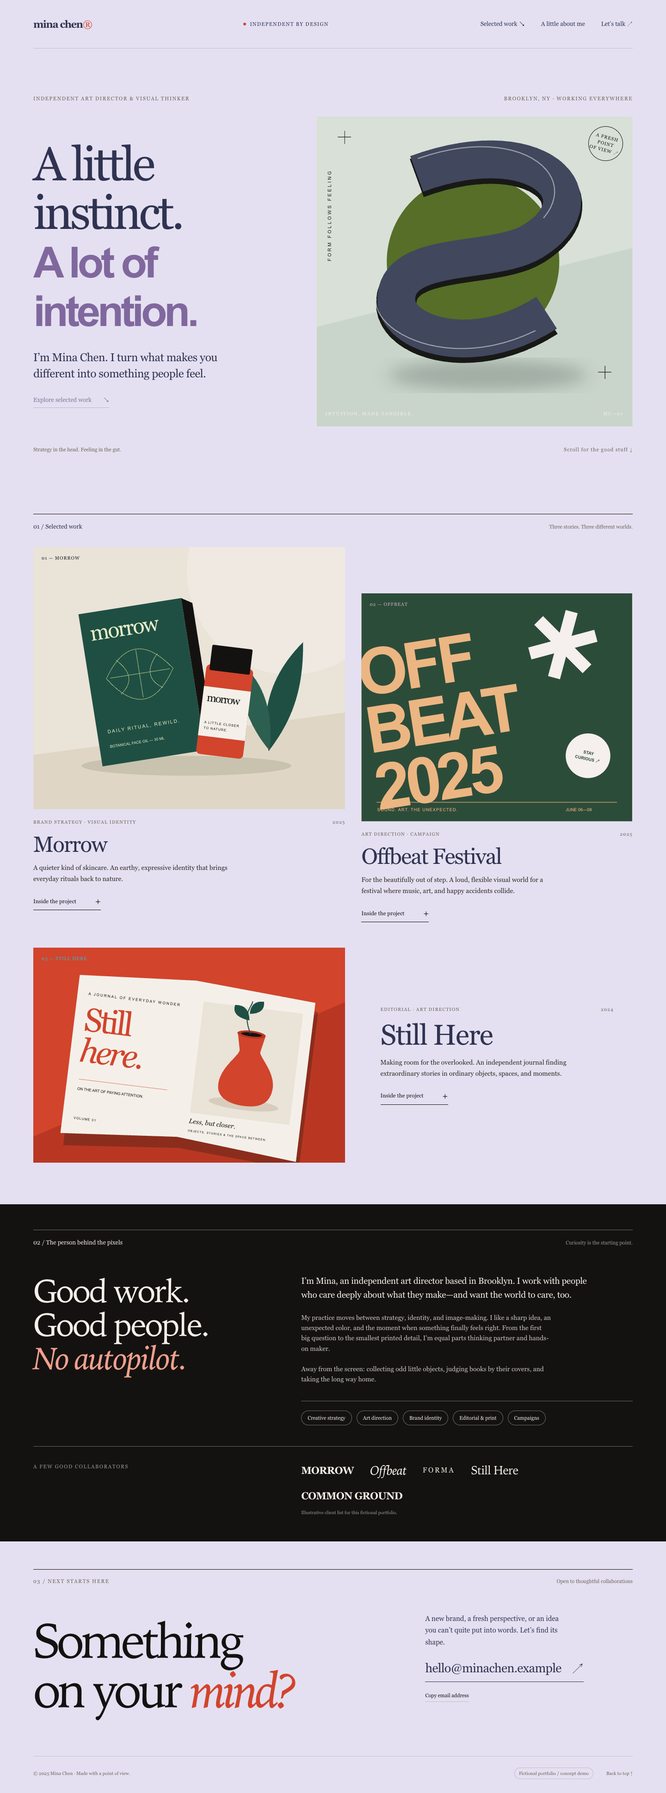
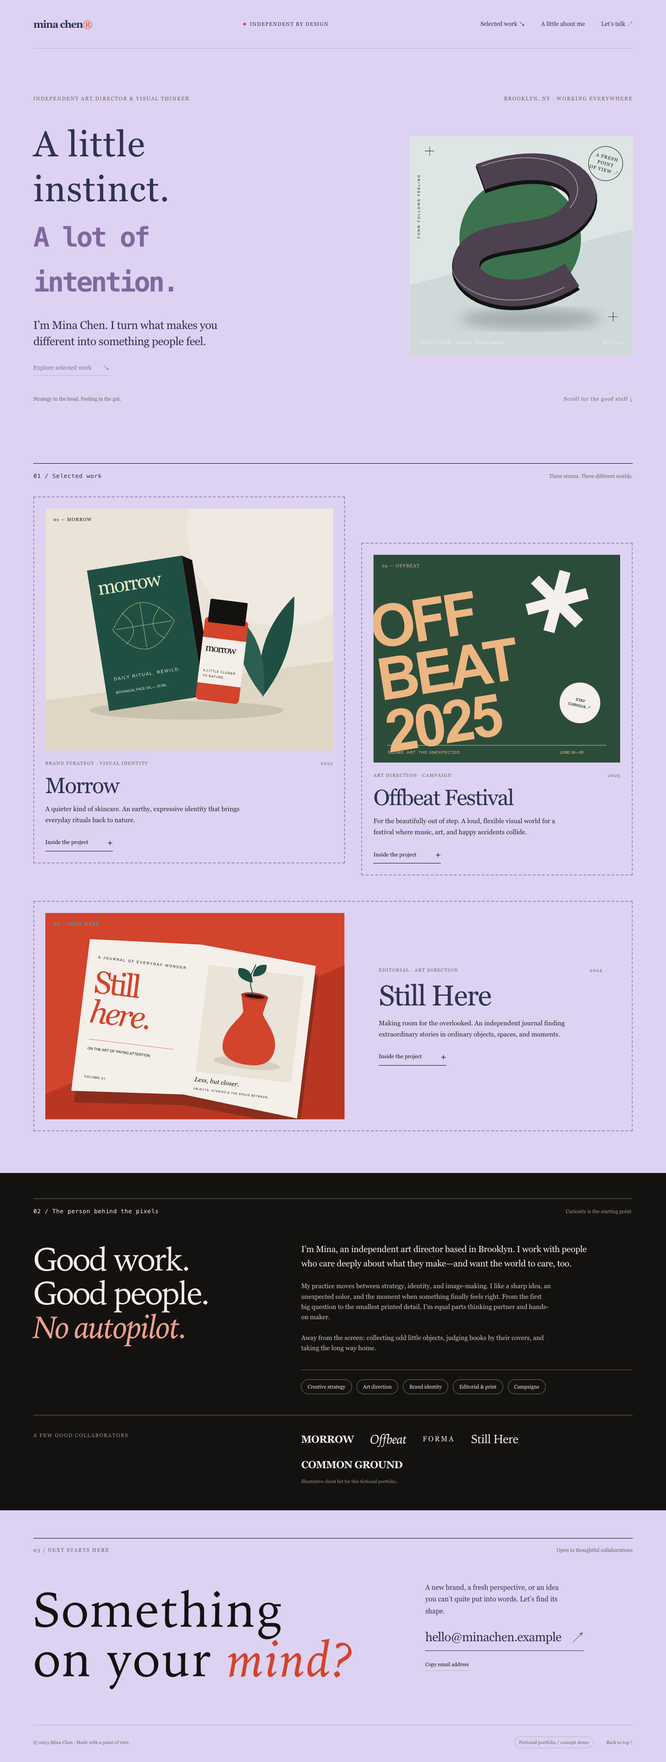
Update five-case showcase and tab navigation

diff --git a/index.html b/index.html
@@ -1,5 +1,6 @@
-<!doctype html><html lang="zh-CN"><meta charset="utf-8"><meta name="viewport" content="width=device-width,initial-scale=1"><title>GPT 缺点移植实验 · 五类页面</title><style>*{box-sizing:border-box}body{margin:0;background:#f2f3f0;color:#252a27;font:14px/1.55 system-ui,-apple-system,"Segoe UI",sans-serif}main{max-width:1900px;margin:auto;padding:28px}h1{font-size:32px;margin:0 0 5px}.subtitle{font-size:16px;margin:0 0 20px;color:#414a44}.intro{color:#59625c;max-width:1100px;margin:0 0 24px}article{background:white;border:1px solid #d9ded9;border-radius:12px;padding:20px;margin:24px 0;overflow-x:auto}header{display:flex;align-items:center;justify-content:space-between;gap:15px}h2{font-size:21px;margin:0}header span{border-radius:20px;background:#eef1ed;padding:5px 12px;font-size:12px}h3{font-size:17px;margin:22px 0 10px}.full,.triple{display:grid;gap:12px}.full{grid-template-columns:repeat(2,minmax(0,1fr));min-width:900px}.triple{grid-template-columns:repeat(3,minmax(0,1fr));min-width:990px}figure{margin:0;padding:10px;border:1px solid #e3e6e2;border-radius:8px;min-width:0}figcaption{font-weight:700;margin-bottom:8px}img{display:block;width:100%;height:auto;border:1px solid #eee}a{color:inherit}.links{margin:12px 0 0;font-size:13px}@media(max-width:850px){main{padding:14px}article{padding:14px}header{align-items:flex-start;flex-direction:column}}</style><main><h1>五类页面：GPT 原稿与改坏 + 风格迁移 · 多样性实验版 v4</h1><p class="subtitle">每个产物截第一屏做比较对比 · After 按案例使用不同的配色、字体、排版、组件与插画处理，质量偏好仍待人工验证</p><p class="intro">同一题目分别交给 GPT、DeepSeek、Xiaomi MiMo 独立生成；GPT 对照三份候选，列出其他两个候选相对 GPT 的具体弱点；GPT 提出的弱点未经单独证据核验，直接交给 DeepSeek 尝试移植到 GPT 原稿。完整页面区的 Before 是 GPT 原稿，After 是先移植弱点、再迁移 DS 或 MiMo 的中性风格。下方三图仅展示三家独立原答各自第一屏。风格差异本身不代表质量高低。GPT 的评价是模型假设，不代表真实质量标签；所有样本仍为 expected-unverified。本版沿用已保存的三模型候选、GPT 评价和缺点移植结果，在 After 上增加每组不同的多维变化并重新验证。独立候选截图已等待显现动画；GPT 原评价使用旧截图，需复核。此公开展示不包含内部评价记录。</p><article><header><h2>01-landing · Landing Page</h2><span>技术检查通过 · 每组多维变化 · 五组风格不同 · 偏好未验证</span></header><p class="links">After 的视觉方向：cool utilitarian retail；变化维度：palette、typography、layout rhythm、CTA affordance、illustration finish。</p><h3>先看同一视口的首屏差异（1920 × 1080）</h3><div class="full"><figure><figcaption>Before · GPT 原稿首屏</figcaption><a href="01-landing/gpt-1920x1080.png"><img src="01-landing/gpt-1920x1080.png" alt="GPT 原稿首屏"></a></figure><figure><figcaption>After · 多维变化后的首屏</figcaption><a href="01-landing/after-1920x1080.png"><img src="01-landing/after-1920x1080.png" alt="多维变化后的首屏"></a></figure></div><h3>完整页面对比</h3><div class="full"><figure><figcaption>Before · GPT 独立生成原稿</figcaption><a href="01-landing/base-full.png"><img src="01-landing/base-full.png" alt="Landing Page GPT 原始完整页面"></a></figure><figure><figcaption>After · 缺点移植 + 多维变化 + deepseek 中性风格</figcaption><a href="01-landing/transferred-full.png"><img src="01-landing/transferred-full.png" alt="Landing Page 移植后完整页面"></a></figure></div><h3>三个独立生成答案：各取第一屏（1920 × 1080）</h3><div class="triple"><figure><figcaption>GPT · Before 原稿</figcaption><a href="01-landing/gpt-1920x1080.png"><img src="01-landing/gpt-1920x1080.png" alt="GPT 独立生成首屏"></a></figure><figure><figcaption>DeepSeek · 独立生成</figcaption><a href="01-landing/deepseek-1920x1080.png"><img src="01-landing/deepseek-1920x1080.png" alt="DeepSeek 独立生成首屏"></a></figure><figure><figcaption>Xiaomi MiMo · 独立生成</figcaption><a href="01-landing/mimo-1920x1080.png"><img src="01-landing/mimo-1920x1080.png" alt="Xiaomi MiMo 独立生成首屏"></a></figure></div><p class="links"><a href="01-landing/comparison.html">打开单案例对照</a> · <a href="01-landing/before.html">Before 网页</a> · <a href="01-landing/after.html">After 网页</a> · <a href="01-landing/candidate-gpt.html">GPT 原答</a> · <a href="01-landing/candidate-deepseek.html">DeepSeek 原答</a> · <a href="01-landing/candidate-mimo.html">MiMo 原答</a></p></article>
-<article><header><h2>02-corporate · 品牌或公司官网</h2><span>技术检查通过 · 每组多维变化 · 五组风格不同 · 偏好未验证</span></header><p class="links">After 的视觉方向：warm compact corporate；变化维度：palette、typography、column balance、component consistency、illustration tone。</p><h3>先看同一视口的首屏差异（1920 × 1080）</h3><div class="full"><figure><figcaption>Before · GPT 原稿首屏</figcaption><a href="02-corporate/gpt-1920x1080.png"><img src="02-corporate/gpt-1920x1080.png" alt="GPT 原稿首屏"></a></figure><figure><figcaption>After · 多维变化后的首屏</figcaption><a href="02-corporate/after-1920x1080.png"><img src="02-corporate/after-1920x1080.png" alt="多维变化后的首屏"></a></figure></div><h3>完整页面对比</h3><div class="full"><figure><figcaption>Before · GPT 独立生成原稿</figcaption><a href="02-corporate/base-full.png"><img src="02-corporate/base-full.png" alt="品牌或公司官网 GPT 原始完整页面"></a></figure><figure><figcaption>After · 缺点移植 + 多维变化 + deepseek 中性风格</figcaption><a href="02-corporate/transferred-full.png"><img src="02-corporate/transferred-full.png" alt="品牌或公司官网 移植后完整页面"></a></figure></div><h3>三个独立生成答案：各取第一屏（1920 × 1080）</h3><div class="triple"><figure><figcaption>GPT · Before 原稿</figcaption><a href="02-corporate/gpt-1920x1080.png"><img src="02-corporate/gpt-1920x1080.png" alt="GPT 独立生成首屏"></a></figure><figure><figcaption>DeepSeek · 独立生成</figcaption><a href="02-corporate/deepseek-1920x1080.png"><img src="02-corporate/deepseek-1920x1080.png" alt="DeepSeek 独立生成首屏"></a></figure><figure><figcaption>Xiaomi MiMo · 独立生成</figcaption><a href="02-corporate/mimo-1920x1080.png"><img src="02-corporate/mimo-1920x1080.png" alt="Xiaomi MiMo 独立生成首屏"></a></figure></div><p class="links"><a href="02-corporate/comparison.html">打开单案例对照</a> · <a href="02-corporate/before.html">Before 网页</a> · <a href="02-corporate/after.html">After 网页</a> · <a href="02-corporate/candidate-gpt.html">GPT 原答</a> · <a href="02-corporate/candidate-deepseek.html">DeepSeek 原答</a> · <a href="02-corporate/candidate-mimo.html">MiMo 原答</a></p></article>
-<article><header><h2>03-portfolio · Portfolio</h2><span>技术检查通过 · 每组多维变化 · 五组风格不同 · 偏好未验证</span></header><p class="links">After 的视觉方向：lilac editorial portfolio；变化维度：palette、type hierarchy、grid balance、work-link affordance、art treatment。</p><h3>先看同一视口的首屏差异（1920 × 1080）</h3><div class="full"><figure><figcaption>Before · GPT 原稿首屏</figcaption><a href="03-portfolio/gpt-1920x1080.png"><img src="03-portfolio/gpt-1920x1080.png" alt="GPT 原稿首屏"></a></figure><figure><figcaption>After · 多维变化后的首屏</figcaption><a href="03-portfolio/after-1920x1080.png"><img src="03-portfolio/after-1920x1080.png" alt="多维变化后的首屏"></a></figure></div><h3>完整页面对比</h3><div class="full"><figure><figcaption>Before · GPT 独立生成原稿</figcaption><a href="03-portfolio/base-full.png"><img src="03-portfolio/base-full.png" alt="Portfolio GPT 原始完整页面"></a></figure><figure><figcaption>After · 缺点移植 + 多维变化 + mimo 中性风格</figcaption><a href="03-portfolio/transferred-full.png"><img src="03-portfolio/transferred-full.png" alt="Portfolio 移植后完整页面"></a></figure></div><h3>三个独立生成答案：各取第一屏（1920 × 1080）</h3><div class="triple"><figure><figcaption>GPT · Before 原稿</figcaption><a href="03-portfolio/gpt-1920x1080.png"><img src="03-portfolio/gpt-1920x1080.png" alt="GPT 独立生成首屏"></a></figure><figure><figcaption>DeepSeek · 独立生成</figcaption><a href="03-portfolio/deepseek-1920x1080.png"><img src="03-portfolio/deepseek-1920x1080.png" alt="DeepSeek 独立生成首屏"></a></figure><figure><figcaption>Xiaomi MiMo · 独立生成</figcaption><a href="03-portfolio/mimo-1920x1080.png"><img src="03-portfolio/mimo-1920x1080.png" alt="Xiaomi MiMo 独立生成首屏"></a></figure></div><p class="links"><a href="03-portfolio/comparison.html">打开单案例对照</a> · <a href="03-portfolio/before.html">Before 网页</a> · <a href="03-portfolio/after.html">After 网页</a> · <a href="03-portfolio/candidate-gpt.html">GPT 原答</a> · <a href="03-portfolio/candidate-deepseek.html">DeepSeek 原答</a> · <a href="03-portfolio/candidate-mimo.html">MiMo 原答</a></p></article>
-<article><header><h2>04-pricing · Pricing Page</h2><span>技术检查通过 · 每组多维变化 · 五组风格不同 · 偏好未验证</span></header><p class="links">After 的视觉方向：dense blue product pricing；变化维度：palette、typography、card spacing、recommended-plan distinction、CTA affordance。</p><h3>先看同一视口的首屏差异（1920 × 1080）</h3><div class="full"><figure><figcaption>Before · GPT 原稿首屏</figcaption><a href="04-pricing/gpt-1920x1080.png"><img src="04-pricing/gpt-1920x1080.png" alt="GPT 原稿首屏"></a></figure><figure><figcaption>After · 多维变化后的首屏</figcaption><a href="04-pricing/after-1920x1080.png"><img src="04-pricing/after-1920x1080.png" alt="多维变化后的首屏"></a></figure></div><h3>完整页面对比</h3><div class="full"><figure><figcaption>Before · GPT 独立生成原稿</figcaption><a href="04-pricing/base-full.png"><img src="04-pricing/base-full.png" alt="Pricing Page GPT 原始完整页面"></a></figure><figure><figcaption>After · 缺点移植 + 多维变化 + deepseek 中性风格</figcaption><a href="04-pricing/transferred-full.png"><img src="04-pricing/transferred-full.png" alt="Pricing Page 移植后完整页面"></a></figure></div><h3>三个独立生成答案：各取第一屏（1920 × 1080）</h3><div class="triple"><figure><figcaption>GPT · Before 原稿</figcaption><a href="04-pricing/gpt-1920x1080.png"><img src="04-pricing/gpt-1920x1080.png" alt="GPT 独立生成首屏"></a></figure><figure><figcaption>DeepSeek · 独立生成</figcaption><a href="04-pricing/deepseek-1920x1080.png"><img src="04-pricing/deepseek-1920x1080.png" alt="DeepSeek 独立生成首屏"></a></figure><figure><figcaption>Xiaomi MiMo · 独立生成</figcaption><a href="04-pricing/mimo-1920x1080.png"><img src="04-pricing/mimo-1920x1080.png" alt="Xiaomi MiMo 独立生成首屏"></a></figure></div><p class="links"><a href="04-pricing/comparison.html">打开单案例对照</a> · <a href="04-pricing/before.html">Before 网页</a> · <a href="04-pricing/after.html">After 网页</a> · <a href="04-pricing/candidate-gpt.html">GPT 原答</a> · <a href="04-pricing/candidate-deepseek.html">DeepSeek 原答</a> · <a href="04-pricing/candidate-mimo.html">MiMo 原答</a></p></article>
-<article><header><h2>05-b2b · ToB 产品介绍页</h2><span>技术检查通过 · 每组多维变化 · 五组风格不同 · 偏好未验证</span></header><p class="links">After 的视觉方向：ochre industrial SaaS；变化维度：palette、technical typography、hero balance、demo CTA affordance、dashboard tone。</p><h3>先看同一视口的首屏差异（1920 × 1080）</h3><div class="full"><figure><figcaption>Before · GPT 原稿首屏</figcaption><a href="05-b2b/gpt-1920x1080.png"><img src="05-b2b/gpt-1920x1080.png" alt="GPT 原稿首屏"></a></figure><figure><figcaption>After · 多维变化后的首屏</figcaption><a href="05-b2b/after-1920x1080.png"><img src="05-b2b/after-1920x1080.png" alt="多维变化后的首屏"></a></figure></div><h3>完整页面对比</h3><div class="full"><figure><figcaption>Before · GPT 独立生成原稿</figcaption><a href="05-b2b/base-full.png"><img src="05-b2b/base-full.png" alt="ToB 产品介绍页 GPT 原始完整页面"></a></figure><figure><figcaption>After · 缺点移植 + 多维变化 + mimo 中性风格</figcaption><a href="05-b2b/transferred-full.png"><img src="05-b2b/transferred-full.png" alt="ToB 产品介绍页 移植后完整页面"></a></figure></div><h3>三个独立生成答案：各取第一屏（1920 × 1080）</h3><div class="triple"><figure><figcaption>GPT · Before 原稿</figcaption><a href="05-b2b/gpt-1920x1080.png"><img src="05-b2b/gpt-1920x1080.png" alt="GPT 独立生成首屏"></a></figure><figure><figcaption>DeepSeek · 独立生成</figcaption><a href="05-b2b/deepseek-1920x1080.png"><img src="05-b2b/deepseek-1920x1080.png" alt="DeepSeek 独立生成首屏"></a></figure><figure><figcaption>Xiaomi MiMo · 独立生成</figcaption><a href="05-b2b/mimo-1920x1080.png"><img src="05-b2b/mimo-1920x1080.png" alt="Xiaomi MiMo 独立生成首屏"></a></figure></div><p class="links"><a href="05-b2b/comparison.html">打开单案例对照</a> · <a href="05-b2b/before.html">Before 网页</a> · <a href="05-b2b/after.html">After 网页</a> · <a href="05-b2b/candidate-gpt.html">GPT 原答</a> · <a href="05-b2b/candidate-deepseek.html">DeepSeek 原答</a> · <a href="05-b2b/candidate-mimo.html">MiMo 原答</a></p></article></main></html>
+<!doctype html><html lang="zh-CN"><meta charset="utf-8"><meta name="viewport" content="width=device-width,initial-scale=1"><title>GPT 缺点移植实验 · 五类页面</title><style>*{box-sizing:border-box}body{margin:0;background:#f2f3f0;color:#252a27;font:14px/1.55 system-ui,-apple-system,"Segoe UI",sans-serif}main{max-width:1900px;margin:auto;padding:28px}h1{font-size:32px;margin:0 0 5px}.subtitle{font-size:16px;margin:0 0 20px;color:#414a44}.intro{color:#59625c;max-width:1100px;margin:0 0 24px}article{background:white;border:1px solid #d9ded9;border-radius:12px;padding:20px;margin:24px 0;overflow-x:auto}header{display:flex;align-items:center;justify-content:space-between;gap:15px}h2{font-size:21px;margin:0}header span{border-radius:20px;background:#eef1ed;padding:5px 12px;font-size:12px}h3{font-size:17px;margin:22px 0 10px}.full,.triple{display:grid;gap:12px}.full{grid-template-columns:repeat(2,minmax(0,1fr));min-width:900px}.triple{grid-template-columns:repeat(3,minmax(0,1fr));min-width:990px}figure{margin:0;padding:10px;border:1px solid #e3e6e2;border-radius:8px;min-width:0}figcaption{font-weight:700;margin-bottom:8px}img{display:block;width:100%;height:auto;border:1px solid #eee}a{color:inherit}.links{margin:12px 0 0;font-size:13px}@media(max-width:850px){main{padding:14px}article{padding:14px}header{align-items:flex-start;flex-direction:column}}#case-tabs{position:sticky;top:0;z-index:10;display:flex;gap:8px;padding:14px 0;background:#f2f3f0;overflow-x:auto;border-bottom:1px solid #cbd4cb}#case-tabs button{flex:1;min-width:170px;padding:14px 16px;border:1px solid #cbd4cb;border-radius:8px;background:white;color:#414a44;font:600 14px system-ui;cursor:pointer}#case-tabs button[aria-selected="true"]{background:#253d32;color:white;border-color:#253d32}#case-tabs button:focus-visible{outline:3px solid #709e87;outline-offset:2px}article[hidden]{display:none}.full,.triple{min-width:0}img{content-visibility:auto}@media(max-width:850px){.full,.triple{grid-template-columns:1fr}h1{font-size:25px}#case-tabs button{flex:none;min-width:auto}header span{white-space:normal}} </style><main><h1>五类页面：GPT 原稿与改坏 + 风格迁移 · 多样性实验版 v4</h1><p class="subtitle">每个产物截第一屏做比较对比 · After 按案例使用不同的配色、字体、排版、组件与插画处理，质量偏好仍待人工验证</p><p class="intro">同一题目分别交给 GPT、DeepSeek、Xiaomi MiMo 独立生成；GPT 对照三份候选，列出其他两个候选相对 GPT 的具体弱点；GPT 提出的弱点未经单独证据核验，直接交给 DeepSeek 尝试移植到 GPT 原稿。完整页面区的 Before 是 GPT 原稿，After 是先移植弱点、再迁移 DS 或 MiMo 的中性风格。下方三图仅展示三家独立原答各自第一屏。风格差异本身不代表质量高低。GPT 的评价是模型假设，不代表真实质量标签；所有样本仍为 expected-unverified。本版沿用已保存的三模型候选、GPT 评价和缺点移植结果，在 After 上增加每组不同的多维变化并重新验证。独立候选截图已等待显现动画；GPT 原评价使用旧截图，需复核。此公开展示不包含内部评价记录。</p><nav id="case-tabs" role="tablist" aria-label="按题目浏览"><button type="button" role="tab" id="tab-01-landing" aria-controls="01-landing" aria-selected="true" tabindex="0">01-landing · Landing Page</button><button type="button" role="tab" id="tab-02-corporate" aria-controls="02-corporate" aria-selected="false" tabindex="-1">02-corporate · 品牌或公司官网</button><button type="button" role="tab" id="tab-03-portfolio" aria-controls="03-portfolio" aria-selected="false" tabindex="-1">03-portfolio · Portfolio</button><button type="button" role="tab" id="tab-04-pricing" aria-controls="04-pricing" aria-selected="false" tabindex="-1">04-pricing · Pricing Page</button><button type="button" role="tab" id="tab-05-b2b" aria-controls="05-b2b" aria-selected="false" tabindex="-1">05-b2b · ToB 产品介绍页</button></nav><article role="tabpanel" id="01-landing" aria-labelledby="tab-01-landing" tabindex="0"><header><h2>01-landing · Landing Page</h2><span>技术检查通过 · 每组多维变化 · 五组风格不同 · 偏好未验证</span></header><p class="links">After 的视觉方向：cool utilitarian retail；变化维度：palette、typography、layout rhythm、CTA affordance、illustration finish。</p><h3>先看同一视口的首屏差异（1920 × 1080）</h3><div class="full"><figure><figcaption>Before · GPT 原稿首屏</figcaption><a href="01-landing/gpt-1920x1080.png"><img src="01-landing/gpt-1920x1080.png" alt="GPT 原稿首屏"></a></figure><figure><figcaption>After · 多维变化后的首屏</figcaption><a href="01-landing/after-1920x1080.png"><img src="01-landing/after-1920x1080.png" alt="多维变化后的首屏"></a></figure></div><h3>完整页面对比</h3><div class="full"><figure><figcaption>Before · GPT 独立生成原稿</figcaption><a href="01-landing/base-full.png"><img src="01-landing/base-full.png" alt="Landing Page GPT 原始完整页面"></a></figure><figure><figcaption>After · 缺点移植 + 多维变化 + deepseek 中性风格</figcaption><a href="01-landing/transferred-full.png"><img src="01-landing/transferred-full.png" alt="Landing Page 移植后完整页面"></a></figure></div><h3>三个独立生成答案：各取第一屏（1920 × 1080）</h3><div class="triple"><figure><figcaption>GPT · Before 原稿</figcaption><a href="01-landing/gpt-1920x1080.png"><img src="01-landing/gpt-1920x1080.png" alt="GPT 独立生成首屏"></a></figure><figure><figcaption>DeepSeek · 独立生成</figcaption><a href="01-landing/deepseek-1920x1080.png"><img src="01-landing/deepseek-1920x1080.png" alt="DeepSeek 独立生成首屏"></a></figure><figure><figcaption>Xiaomi MiMo · 独立生成</figcaption><a href="01-landing/mimo-1920x1080.png"><img src="01-landing/mimo-1920x1080.png" alt="Xiaomi MiMo 独立生成首屏"></a></figure></div><p class="links"><a href="01-landing/comparison.html">打开单案例对照</a> · <a href="01-landing/before.html">Before 网页</a> · <a href="01-landing/after.html">After 网页</a> · <a href="01-landing/candidate-gpt.html">GPT 原答</a> · <a href="01-landing/candidate-deepseek.html">DeepSeek 原答</a> · <a href="01-landing/candidate-mimo.html">MiMo 原答</a></p></article>
+<article role="tabpanel" id="02-corporate" aria-labelledby="tab-02-corporate" tabindex="0"><header><h2>02-corporate · 品牌或公司官网</h2><span>技术检查通过 · 每组多维变化 · 五组风格不同 · 偏好未验证</span></header><p class="links">After 的视觉方向：warm compact corporate；变化维度：palette、typography、column balance、component consistency、illustration tone。</p><h3>先看同一视口的首屏差异（1920 × 1080）</h3><div class="full"><figure><figcaption>Before · GPT 原稿首屏</figcaption><a href="02-corporate/gpt-1920x1080.png"><img src="02-corporate/gpt-1920x1080.png" alt="GPT 原稿首屏"></a></figure><figure><figcaption>After · 多维变化后的首屏</figcaption><a href="02-corporate/after-1920x1080.png"><img src="02-corporate/after-1920x1080.png" alt="多维变化后的首屏"></a></figure></div><h3>完整页面对比</h3><div class="full"><figure><figcaption>Before · GPT 独立生成原稿</figcaption><a href="02-corporate/base-full.png"><img src="02-corporate/base-full.png" alt="品牌或公司官网 GPT 原始完整页面"></a></figure><figure><figcaption>After · 缺点移植 + 多维变化 + deepseek 中性风格</figcaption><a href="02-corporate/transferred-full.png"><img src="02-corporate/transferred-full.png" alt="品牌或公司官网 移植后完整页面"></a></figure></div><h3>三个独立生成答案：各取第一屏（1920 × 1080）</h3><div class="triple"><figure><figcaption>GPT · Before 原稿</figcaption><a href="02-corporate/gpt-1920x1080.png"><img src="02-corporate/gpt-1920x1080.png" alt="GPT 独立生成首屏"></a></figure><figure><figcaption>DeepSeek · 独立生成</figcaption><a href="02-corporate/deepseek-1920x1080.png"><img src="02-corporate/deepseek-1920x1080.png" alt="DeepSeek 独立生成首屏"></a></figure><figure><figcaption>Xiaomi MiMo · 独立生成</figcaption><a href="02-corporate/mimo-1920x1080.png"><img src="02-corporate/mimo-1920x1080.png" alt="Xiaomi MiMo 独立生成首屏"></a></figure></div><p class="links"><a href="02-corporate/comparison.html">打开单案例对照</a> · <a href="02-corporate/before.html">Before 网页</a> · <a href="02-corporate/after.html">After 网页</a> · <a href="02-corporate/candidate-gpt.html">GPT 原答</a> · <a href="02-corporate/candidate-deepseek.html">DeepSeek 原答</a> · <a href="02-corporate/candidate-mimo.html">MiMo 原答</a></p></article>
+<article role="tabpanel" id="03-portfolio" aria-labelledby="tab-03-portfolio" tabindex="0"><header><h2>03-portfolio · Portfolio</h2><span>技术检查通过 · 每组多维变化 · 五组风格不同 · 偏好未验证</span></header><p class="links">After 的视觉方向：lilac editorial portfolio；变化维度：palette、type hierarchy、grid balance、work-link affordance、art treatment。</p><h3>先看同一视口的首屏差异（1920 × 1080）</h3><div class="full"><figure><figcaption>Before · GPT 原稿首屏</figcaption><a href="03-portfolio/gpt-1920x1080.png"><img src="03-portfolio/gpt-1920x1080.png" alt="GPT 原稿首屏"></a></figure><figure><figcaption>After · 多维变化后的首屏</figcaption><a href="03-portfolio/after-1920x1080.png"><img src="03-portfolio/after-1920x1080.png" alt="多维变化后的首屏"></a></figure></div><h3>完整页面对比</h3><div class="full"><figure><figcaption>Before · GPT 独立生成原稿</figcaption><a href="03-portfolio/base-full.png"><img src="03-portfolio/base-full.png" alt="Portfolio GPT 原始完整页面"></a></figure><figure><figcaption>After · 缺点移植 + 多维变化 + mimo 中性风格</figcaption><a href="03-portfolio/transferred-full.png"><img src="03-portfolio/transferred-full.png" alt="Portfolio 移植后完整页面"></a></figure></div><h3>三个独立生成答案：各取第一屏（1920 × 1080）</h3><div class="triple"><figure><figcaption>GPT · Before 原稿</figcaption><a href="03-portfolio/gpt-1920x1080.png"><img src="03-portfolio/gpt-1920x1080.png" alt="GPT 独立生成首屏"></a></figure><figure><figcaption>DeepSeek · 独立生成</figcaption><a href="03-portfolio/deepseek-1920x1080.png"><img src="03-portfolio/deepseek-1920x1080.png" alt="DeepSeek 独立生成首屏"></a></figure><figure><figcaption>Xiaomi MiMo · 独立生成</figcaption><a href="03-portfolio/mimo-1920x1080.png"><img src="03-portfolio/mimo-1920x1080.png" alt="Xiaomi MiMo 独立生成首屏"></a></figure></div><p class="links"><a href="03-portfolio/comparison.html">打开单案例对照</a> · <a href="03-portfolio/before.html">Before 网页</a> · <a href="03-portfolio/after.html">After 网页</a> · <a href="03-portfolio/candidate-gpt.html">GPT 原答</a> · <a href="03-portfolio/candidate-deepseek.html">DeepSeek 原答</a> · <a href="03-portfolio/candidate-mimo.html">MiMo 原答</a></p></article>
+<article role="tabpanel" id="04-pricing" aria-labelledby="tab-04-pricing" tabindex="0"><header><h2>04-pricing · Pricing Page</h2><span>技术检查通过 · 每组多维变化 · 五组风格不同 · 偏好未验证</span></header><p class="links">After 的视觉方向：dense blue product pricing；变化维度：palette、typography、card spacing、recommended-plan distinction、CTA affordance。</p><h3>先看同一视口的首屏差异（1920 × 1080）</h3><div class="full"><figure><figcaption>Before · GPT 原稿首屏</figcaption><a href="04-pricing/gpt-1920x1080.png"><img src="04-pricing/gpt-1920x1080.png" alt="GPT 原稿首屏"></a></figure><figure><figcaption>After · 多维变化后的首屏</figcaption><a href="04-pricing/after-1920x1080.png"><img src="04-pricing/after-1920x1080.png" alt="多维变化后的首屏"></a></figure></div><h3>完整页面对比</h3><div class="full"><figure><figcaption>Before · GPT 独立生成原稿</figcaption><a href="04-pricing/base-full.png"><img src="04-pricing/base-full.png" alt="Pricing Page GPT 原始完整页面"></a></figure><figure><figcaption>After · 缺点移植 + 多维变化 + deepseek 中性风格</figcaption><a href="04-pricing/transferred-full.png"><img src="04-pricing/transferred-full.png" alt="Pricing Page 移植后完整页面"></a></figure></div><h3>三个独立生成答案：各取第一屏（1920 × 1080）</h3><div class="triple"><figure><figcaption>GPT · Before 原稿</figcaption><a href="04-pricing/gpt-1920x1080.png"><img src="04-pricing/gpt-1920x1080.png" alt="GPT 独立生成首屏"></a></figure><figure><figcaption>DeepSeek · 独立生成</figcaption><a href="04-pricing/deepseek-1920x1080.png"><img src="04-pricing/deepseek-1920x1080.png" alt="DeepSeek 独立生成首屏"></a></figure><figure><figcaption>Xiaomi MiMo · 独立生成</figcaption><a href="04-pricing/mimo-1920x1080.png"><img src="04-pricing/mimo-1920x1080.png" alt="Xiaomi MiMo 独立生成首屏"></a></figure></div><p class="links"><a href="04-pricing/comparison.html">打开单案例对照</a> · <a href="04-pricing/before.html">Before 网页</a> · <a href="04-pricing/after.html">After 网页</a> · <a href="04-pricing/candidate-gpt.html">GPT 原答</a> · <a href="04-pricing/candidate-deepseek.html">DeepSeek 原答</a> · <a href="04-pricing/candidate-mimo.html">MiMo 原答</a></p></article>
+<article role="tabpanel" id="05-b2b" aria-labelledby="tab-05-b2b" tabindex="0"><header><h2>05-b2b · ToB 产品介绍页</h2><span>技术检查通过 · 每组多维变化 · 五组风格不同 · 偏好未验证</span></header><p class="links">After 的视觉方向：ochre industrial SaaS；变化维度：palette、technical typography、hero balance、demo CTA affordance、dashboard tone。</p><h3>先看同一视口的首屏差异（1920 × 1080）</h3><div class="full"><figure><figcaption>Before · GPT 原稿首屏</figcaption><a href="05-b2b/gpt-1920x1080.png"><img src="05-b2b/gpt-1920x1080.png" alt="GPT 原稿首屏"></a></figure><figure><figcaption>After · 多维变化后的首屏</figcaption><a href="05-b2b/after-1920x1080.png"><img src="05-b2b/after-1920x1080.png" alt="多维变化后的首屏"></a></figure></div><h3>完整页面对比</h3><div class="full"><figure><figcaption>Before · GPT 独立生成原稿</figcaption><a href="05-b2b/base-full.png"><img src="05-b2b/base-full.png" alt="ToB 产品介绍页 GPT 原始完整页面"></a></figure><figure><figcaption>After · 缺点移植 + 多维变化 + mimo 中性风格</figcaption><a href="05-b2b/transferred-full.png"><img src="05-b2b/transferred-full.png" alt="ToB 产品介绍页 移植后完整页面"></a></figure></div><h3>三个独立生成答案：各取第一屏（1920 × 1080）</h3><div class="triple"><figure><figcaption>GPT · Before 原稿</figcaption><a href="05-b2b/gpt-1920x1080.png"><img src="05-b2b/gpt-1920x1080.png" alt="GPT 独立生成首屏"></a></figure><figure><figcaption>DeepSeek · 独立生成</figcaption><a href="05-b2b/deepseek-1920x1080.png"><img src="05-b2b/deepseek-1920x1080.png" alt="DeepSeek 独立生成首屏"></a></figure><figure><figcaption>Xiaomi MiMo · 独立生成</figcaption><a href="05-b2b/mimo-1920x1080.png"><img src="05-b2b/mimo-1920x1080.png" alt="Xiaomi MiMo 独立生成首屏"></a></figure></div><p class="links"><a href="05-b2b/comparison.html">打开单案例对照</a> · <a href="05-b2b/before.html">Before 网页</a> · <a href="05-b2b/after.html">After 网页</a> · <a href="05-b2b/candidate-gpt.html">GPT 原答</a> · <a href="05-b2b/candidate-deepseek.html">DeepSeek 原答</a> · <a href="05-b2b/candidate-mimo.html">MiMo 原答</a></p></article></main></html>
+<script>(()=>{const tabs=[...document.querySelectorAll('[role="tab"]')],panels=[...document.querySelectorAll('[role="tabpanel"]')];function activate(id,focus=false){const selected=tabs.find(t=>t.getAttribute('aria-controls')===id)||tabs[0];tabs.forEach(t=>{const active=t===selected;t.setAttribute('aria-selected',active);t.tabIndex=active?0:-1});panels.forEach(p=>p.hidden=p.id!==selected.getAttribute('aria-controls'));if(focus)selected.focus()}tabs.forEach((t,i)=>{t.addEventListener('click',()=>{activate(t.getAttribute('aria-controls'));history.pushState(null,'','#'+t.getAttribute('aria-controls'))});t.addEventListener('keydown',e=>{let n;if(e.key==='ArrowRight')n=(i+1)%tabs.length;if(e.key==='ArrowLeft')n=(i+tabs.length-1)%tabs.length;if(e.key==='Home')n=0;if(e.key==='End')n=tabs.length-1;if(n!==undefined){e.preventDefault();activate(tabs[n].getAttribute('aria-controls'),true);history.replaceState(null,'','#'+tabs[n].getAttribute('aria-controls'))}})});addEventListener('hashchange',()=>activate(location.hash.slice(1)));activate(location.hash.slice(1))})();</script>

diff --git a/01-landing/after.html b/01-landing/after.html
@@ -50,7 +50,7 @@ dialog{background-color:rgb(250, 247, 242)!important;color:rgb(46, 42, 37)!impor
 .dish{background-color:initial!important}
 .bowl{background-color:initial!important}
 </style>
-<style id="evil-design-protected-transfer">section.hero .button{background-color:#999a86!important;border-color:#999a86!important;color:#30372c!important}</style><style id="evil-design-diverse-degradation">:root{--paper:#dceae8;--ink:#2b4040;--muted:#617475;--line:#b9cdca;--rust:#617e80;--olive:#8fa7a0}body{background:#dceae8!important;color:#2b4040!important;font-family:'Trebuchet MS',Arial,sans-serif!important}#hero-title,#hero-title em{font-family:'Trebuchet MS',Arial,sans-serif!important;font-weight:700!important;font-style:normal!important;letter-spacing:-.055em!important;line-height:1.04!important}#hero-title{font-size:94px!important}#hero-title em{color:#658783!important}section.hero{grid-template-columns:1.12fr .88fr!important;gap:38px!important;padding-top:112px!important;padding-bottom:105px!important}section.hero .button{background:#95aaa3!important;border-color:#95aaa3!important;color:#344b46!important}.hero-art .scene,.product-art{filter:saturate(.5) contrast(.92)!important}.scene{border-radius:8px!important}h2{font-family:'Trebuchet MS',Arial,sans-serif!important;font-weight:700!important;letter-spacing:-.04em!important}@media(max-width:700px){#hero-title{font-size:60px!important}section.hero{grid-template-columns:1fr!important;padding-top:55px!important;padding-bottom:65px!important}}</style></head>
+<style id="evil-design-protected-transfer">section.hero .button{background-color:#999a86!important;border-color:#999a86!important;color:#30372c!important}</style><style id="evil-design-diverse-degradation">:root{--paper:#dceae8;--ink:#2b4040;--muted:#617475;--line:#b9cdca;--rust:#617e80;--olive:#8fa7a0}body{background:#dceae8!important;color:#2b4040!important;font-family:'Trebuchet MS',Arial,sans-serif!important}#hero-title,#hero-title em{font-family:'Trebuchet MS',Arial,sans-serif!important;font-weight:700!important;font-style:normal!important;letter-spacing:-.055em!important;line-height:1.04!important}#hero-title{font-size:94px!important}#hero-title em{color:#658783!important}section.hero{grid-template-columns:1.12fr .88fr!important;gap:38px!important;padding-top:112px!important;padding-bottom:105px!important}section.hero .button{background:#95aaa3!important;border-color:#95aaa3!important;color:#344b46!important}.hero-art .scene,.product-art{filter:saturate(.5) contrast(.92)!important}.scene{border-radius:8px!important}h2{font-family:'Trebuchet MS',Arial,sans-serif!important;font-weight:700!important;letter-spacing:-.04em!important}@media(max-width:700px){#hero-title{font-size:60px!important}section.hero{grid-template-columns:1fr!important;padding-top:55px!important;padding-bottom:65px!important}}body{background:#cee4e4!important}#hero-title{font-size:76px!important;line-height:1.2!important;letter-spacing:.015em!important}.hero-art{transform:scale(.85);transform-origin:center}section.hero{gap:72px!important}.button{border-radius:0!important;box-shadow:5px 5px 0 #718b88!important}h2{letter-spacing:.025em!important;line-height:1.4!important}@media(max-width:700px){#hero-title,#page-title,#hero-heading,#hero-heading em{font-size:44px!important;letter-spacing:-.02em!important}.hero-grid{grid-template-columns:1fr!important;gap:24px!important}.hero-art{transform:none}.project{padding:12px!important}}</style></head>
 <body>
 <a class="skip" href="#main">Skip to content</a>
 <header class="site-header wrap">

diff --git a/03-portfolio/after.html b/03-portfolio/after.html
@@ -207,7 +207,7 @@ footer a:hover{color:rgb(210, 68, 44)!important}
 .project-art svg path[stroke="#424b31"]{stroke:rgb(31, 79, 67)!important}
 .project-art svg path[fill="#70774e"]{fill:rgb(31, 79, 67)!important}
 </style>
-<style id="evil-design-diverse-degradation">:root{--paper:#e4e0f1;--ink:#2f3351;--muted:#73738c;--line:#bab7d1;--red:#7f65a7;--lime:#d6cdea;--blue:#665a9c}body{background:#e4e0f1!important;color:#2f3351!important;font-family:Georgia,'Times New Roman',serif!important}#hero-title{font-family:Georgia,'Times New Roman',serif!important;font-size:103px!important;font-weight:400!important;line-height:1.02!important;letter-spacing:-.055em!important}#hero-title em{font-family:Arial,Helvetica,sans-serif!important;font-size:.9em!important;font-style:normal!important;font-weight:650!important;color:#80689e!important}.hero-grid{grid-template-columns:.9fr 1.1fr!important;gap:4%!important}section.hero{padding-top:100px!important;padding-bottom:75px!important}.hero-art svg{filter:hue-rotate(75deg) saturate(.65) contrast(.94)!important}.hero .text-link{color:#81759a!important;border-bottom-color:#bdb6cf!important;text-decoration:none!important}.project:nth-child(2) .project-art{filter:hue-rotate(-22deg) saturate(.7)!important}@media(max-width:700px){#hero-title{font-size:68px!important}.hero-grid{grid-template-columns:1fr!important}section.hero{padding-top:55px!important;padding-bottom:55px!important}}</style></head>
+<style id="evil-design-diverse-degradation">:root{--paper:#e4e0f1;--ink:#2f3351;--muted:#73738c;--line:#bab7d1;--red:#7f65a7;--lime:#d6cdea;--blue:#665a9c}body{background:#e4e0f1!important;color:#2f3351!important;font-family:Georgia,'Times New Roman',serif!important}#hero-title{font-family:Georgia,'Times New Roman',serif!important;font-size:103px!important;font-weight:400!important;line-height:1.02!important;letter-spacing:-.055em!important}#hero-title em{font-family:Arial,Helvetica,sans-serif!important;font-size:.9em!important;font-style:normal!important;font-weight:650!important;color:#80689e!important}.hero-grid{grid-template-columns:.9fr 1.1fr!important;gap:4%!important}section.hero{padding-top:100px!important;padding-bottom:75px!important}.hero-art svg{filter:hue-rotate(75deg) saturate(.65) contrast(.94)!important}.hero .text-link{color:#81759a!important;border-bottom-color:#bdb6cf!important;text-decoration:none!important}.project:nth-child(2) .project-art{filter:hue-rotate(-22deg) saturate(.7)!important}@media(max-width:700px){#hero-title{font-size:68px!important}.hero-grid{grid-template-columns:1fr!important}section.hero{padding-top:55px!important;padding-bottom:55px!important}}body{background:#ddd2f2!important}#hero-title{font-size:78px!important;line-height:1.25!important;letter-spacing:.02em!important}#hero-title em{font-family:monospace!important;font-size:.75em!important}.hero-grid{grid-template-columns:1.2fr .8fr!important;gap:7%!important}.hero-art svg{filter:hue-rotate(130deg) saturate(.4)!important}.project{border:2px dashed #9e8cbb!important;padding:24px!important}h2{font-family:monospace!important;letter-spacing:.03em!important}@media(max-width:700px){#hero-title,#page-title,#hero-heading,#hero-heading em{font-size:44px!important;letter-spacing:-.02em!important}.hero-grid{grid-template-columns:1fr!important;gap:24px!important}.hero-art{transform:none}.project{padding:12px!important}}</style></head>
 <body id="top">
 <a class="skip" href="#main">Skip to content</a>
 <div class="wrap">

diff --git a/02-corporate/after.html b/02-corporate/after.html
@@ -234,7 +234,7 @@ input::placeholder, textarea::placeholder{color:rgb(74, 74, 66)!important}
 .footer-bottom{color:rgb(164, 157, 143)!important}
 .footer-bottom p{color:rgb(164, 157, 143)!important}
 </style>
-<style id="evil-design-diverse-degradation">:root{--paper:#efded3;--white:#fff9f3;--ink:#513b38;--muted:#766562;--line:#d8beb4;--dark:#6e4d49;--peach:#d6a38b;--lime:#ddd1b0}body{background:#efded3!important;color:#513b38!important;font-family:Verdana,Geneva,sans-serif!important}#hero-title,#hero-title em{font-family:Verdana,Geneva,sans-serif!important;font-style:normal!important;font-weight:750!important;letter-spacing:-.067em!important;line-height:1.04!important}#hero-title{font-size:72px!important}#hero-title em{color:#9a6f62!important}section.hero{padding-top:88px!important;padding-bottom:94px!important}.hero-grid{grid-template-columns:1.18fr .82fr!important;gap:38px!important}.hero .btn,.site-header .btn{background:#b5a09a!important;border-color:#b5a09a!important;color:#493d39!important}.landscape{filter:sepia(.34) saturate(.58) contrast(.93)!important;border-top-left-radius:24px!important}.product-card:nth-child(2){background:#e6d9d1!important;border-radius:16px!important}@media(max-width:700px){#hero-title{font-size:52px!important}.hero-grid{grid-template-columns:1fr!important}section.hero{padding-top:52px!important;padding-bottom:65px!important}}</style></head>
+<style id="evil-design-diverse-degradation">:root{--paper:#efded3;--white:#fff9f3;--ink:#513b38;--muted:#766562;--line:#d8beb4;--dark:#6e4d49;--peach:#d6a38b;--lime:#ddd1b0}body{background:#efded3!important;color:#513b38!important;font-family:Verdana,Geneva,sans-serif!important}#hero-title,#hero-title em{font-family:Verdana,Geneva,sans-serif!important;font-style:normal!important;font-weight:750!important;letter-spacing:-.067em!important;line-height:1.04!important}#hero-title{font-size:72px!important}#hero-title em{color:#9a6f62!important}section.hero{padding-top:88px!important;padding-bottom:94px!important}.hero-grid{grid-template-columns:1.18fr .82fr!important;gap:38px!important}.hero .btn,.site-header .btn{background:#b5a09a!important;border-color:#b5a09a!important;color:#493d39!important}.landscape{filter:sepia(.34) saturate(.58) contrast(.93)!important;border-top-left-radius:24px!important}.product-card:nth-child(2){background:#e6d9d1!important;border-radius:16px!important}@media(max-width:700px){#hero-title{font-size:52px!important}.hero-grid{grid-template-columns:1fr!important}section.hero{padding-top:52px!important;padding-bottom:65px!important}}body{background:#f1d2bc!important}#hero-title{font-size:60px!important;line-height:1.25!important;letter-spacing:.015em!important}.hero-grid{grid-template-columns:1.35fr .65fr!important;gap:64px!important}.btn{border-radius:24px!important;box-shadow:3px 5px 0 #bf9b88!important}.product-card{border:2px dashed #b39181!important;border-radius:0!important}h2{font-family:Verdana,sans-serif!important;letter-spacing:.025em!important}@media(max-width:700px){#hero-title,#page-title,#hero-heading,#hero-heading em{font-size:44px!important;letter-spacing:-.02em!important}.hero-grid{grid-template-columns:1fr!important;gap:24px!important}.hero-art{transform:none}.project{padding:12px!important}}</style></head>
 <body>
 <a class="skip-link" href="#main">Skip to content</a>
 <div class="notice">INDEPENDENT THINKING. SHARED ENERGY. <span>A fictional company · Website concept</span></div>

diff --git a/04-pricing/after.html b/04-pricing/after.html
@@ -207,7 +207,7 @@ dialog::backdrop{background-color:rgba(22, 32, 43, 0.66)!important}
 .demo-label{color:rgb(107, 118, 132)!important}
 .skip{background-color:rgb(22, 32, 43)!important;color:rgb(255, 255, 255)!important}
 </style>
-<style id="evil-design-diverse-degradation">:root{--paper:#dce5f0;--ink:#293c52;--muted:#68788d;--line:#b8c8d8;--green:#5e7389;--lime:#c8d5e8;--soft:#e6edf5}body{background:#dce5f0!important;color:#293c52!important;font-family:Verdana,Geneva,sans-serif!important}#page-title,#page-title span{font-family:Verdana,Geneva,sans-serif!important;font-weight:800!important;font-style:normal!important;letter-spacing:-.065em!important;line-height:.99!important}#page-title{font-size:79px!important}section.hero{padding-top:90px!important;padding-bottom:72px!important}.plans{gap:10px!important}.plan{border-radius:2px!important;box-shadow:none!important}.plan.recommended{background:#e1e9f2!important;border-color:#8da3b9!important}.recommend-label{background:#91a5c2!important;color:#263a51!important}.plan-cta,.plan.recommended .plan-cta{background:#b8c9d8!important;border-color:#a3b8c9!important;color:#364d60!important}.plan .amount{font-weight:700!important}@media(max-width:700px){#page-title{font-size:53px!important}section.hero{padding-top:52px!important;padding-bottom:52px!important}.plans{gap:24px!important}}</style></head>
+<style id="evil-design-diverse-degradation">:root{--paper:#dce5f0;--ink:#293c52;--muted:#68788d;--line:#b8c8d8;--green:#5e7389;--lime:#c8d5e8;--soft:#e6edf5}body{background:#dce5f0!important;color:#293c52!important;font-family:Verdana,Geneva,sans-serif!important}#page-title,#page-title span{font-family:Verdana,Geneva,sans-serif!important;font-weight:800!important;font-style:normal!important;letter-spacing:-.065em!important;line-height:.99!important}#page-title{font-size:79px!important}section.hero{padding-top:90px!important;padding-bottom:72px!important}.plans{gap:10px!important}.plan{border-radius:2px!important;box-shadow:none!important}.plan.recommended{background:#e1e9f2!important;border-color:#8da3b9!important}.recommend-label{background:#91a5c2!important;color:#263a51!important}.plan-cta,.plan.recommended .plan-cta{background:#b8c9d8!important;border-color:#a3b8c9!important;color:#364d60!important}.plan .amount{font-weight:700!important}@media(max-width:700px){#page-title{font-size:53px!important}section.hero{padding-top:52px!important;padding-bottom:52px!important}.plans{gap:24px!important}}body{background:#cbdcef!important}#page-title{font-size:62px!important;line-height:1.25!important;letter-spacing:.025em!important}.plans{gap:4px!important}.plan{padding:18px!important;border:2px solid #a3b5cc!important;background:#dce6f2!important}.plan.recommended{background:#dce6f2!important;border-color:#a3b5cc!important}.plan-cta{border-radius:22px!important;box-shadow:3px 3px 0 #8ca2bf!important}.plan h2,.plan h3{font-family:monospace!important;letter-spacing:.04em!important}@media(max-width:700px){#hero-title,#page-title,#hero-heading,#hero-heading em{font-size:44px!important;letter-spacing:-.02em!important}.hero-grid{grid-template-columns:1fr!important;gap:24px!important}.hero-art{transform:none}.project{padding:12px!important}}</style></head>
 <body>
 <a class="skip" href="#main">Skip to content</a>
 <svg xmlns="http://www.w3.org/2000/svg" width="0" height="0" style="position:absolute;overflow:hidden" aria-hidden="true">

diff --git a/05-b2b/after.html b/05-b2b/after.html
@@ -335,7 +335,7 @@ dialog::backdrop{background-color:rgba(13, 41, 40, 0.67)!important}
 .skip{background-color:rgb(18, 33, 28)!important;color:rgb(255, 255, 255)!important}
 ::selection{background-color:rgb(242, 193, 78)!important;color:rgb(18, 33, 28)!important}
 </style>
-<style id="evil-design-diverse-degradation">:root{--paper:#e8dec7;--ink:#4c4035;--muted:#766b5f;--line:#c6bba4;--green:#706a58;--green-dark:#585647;--lime:#ddd2a9;--orange:#ad8061}body{background:#e8dec7!important;color:#4c4035!important;font-family:Tahoma,Verdana,sans-serif!important}#hero-heading,#hero-heading em{font-family:'Courier New',Courier,monospace!important;font-size:82px!important;font-weight:700!important;font-style:normal!important;letter-spacing:-.075em!important;line-height:1.08!important}#hero-heading em{color:#877a61!important}.hero-grid{grid-template-columns:1.1fr .9fr!important;gap:31px!important}section.hero{padding-top:107px!important;padding-bottom:108px!important}#hero-demo{background:#b9ae96!important;border-color:#b9ae96!important;color:#4d473a!important}.hero-visual{filter:saturate(.35) contrast(.94)!important}.workflow-art{filter:saturate(.55)!important}@media(max-width:700px){#hero-heading,#hero-heading em{font-size:54px!important}.hero-grid{grid-template-columns:1fr!important}section.hero{padding-top:58px!important;padding-bottom:68px!important}}</style></head>
+<style id="evil-design-diverse-degradation">:root{--paper:#e8dec7;--ink:#4c4035;--muted:#766b5f;--line:#c6bba4;--green:#706a58;--green-dark:#585647;--lime:#ddd2a9;--orange:#ad8061}body{background:#e8dec7!important;color:#4c4035!important;font-family:Tahoma,Verdana,sans-serif!important}#hero-heading,#hero-heading em{font-family:'Courier New',Courier,monospace!important;font-size:82px!important;font-weight:700!important;font-style:normal!important;letter-spacing:-.075em!important;line-height:1.08!important}#hero-heading em{color:#877a61!important}.hero-grid{grid-template-columns:1.1fr .9fr!important;gap:31px!important}section.hero{padding-top:107px!important;padding-bottom:108px!important}#hero-demo{background:#b9ae96!important;border-color:#b9ae96!important;color:#4d473a!important}.hero-visual{filter:saturate(.35) contrast(.94)!important}.workflow-art{filter:saturate(.55)!important}@media(max-width:700px){#hero-heading,#hero-heading em{font-size:54px!important}.hero-grid{grid-template-columns:1fr!important}section.hero{padding-top:58px!important;padding-bottom:68px!important}}body{background:#e5cea0!important}#hero-heading,#hero-heading em{font-size:64px!important;line-height:1.3!important;letter-spacing:.01em!important}.hero-grid{grid-template-columns:1.3fr .7fr!important;gap:60px!important}#hero-demo{border-radius:0!important;box-shadow:6px 6px 0 #958465!important}.hero-visual{filter:sepia(.7) saturate(.5)!important}h2{font-family:'Courier New',monospace!important;letter-spacing:.025em!important}@media(max-width:700px){#hero-title,#page-title,#hero-heading,#hero-heading em{font-size:44px!important;letter-spacing:-.02em!important}.hero-grid{grid-template-columns:1fr!important;gap:24px!important}.hero-art{transform:none}.project{padding:12px!important}}</style></head>
 <body>
 <a class="skip" href="#main">Skip to content</a>
 <div class="announcement">A clearer view. A better shift. <span>/</span> AtlasFlow product concept</div>
